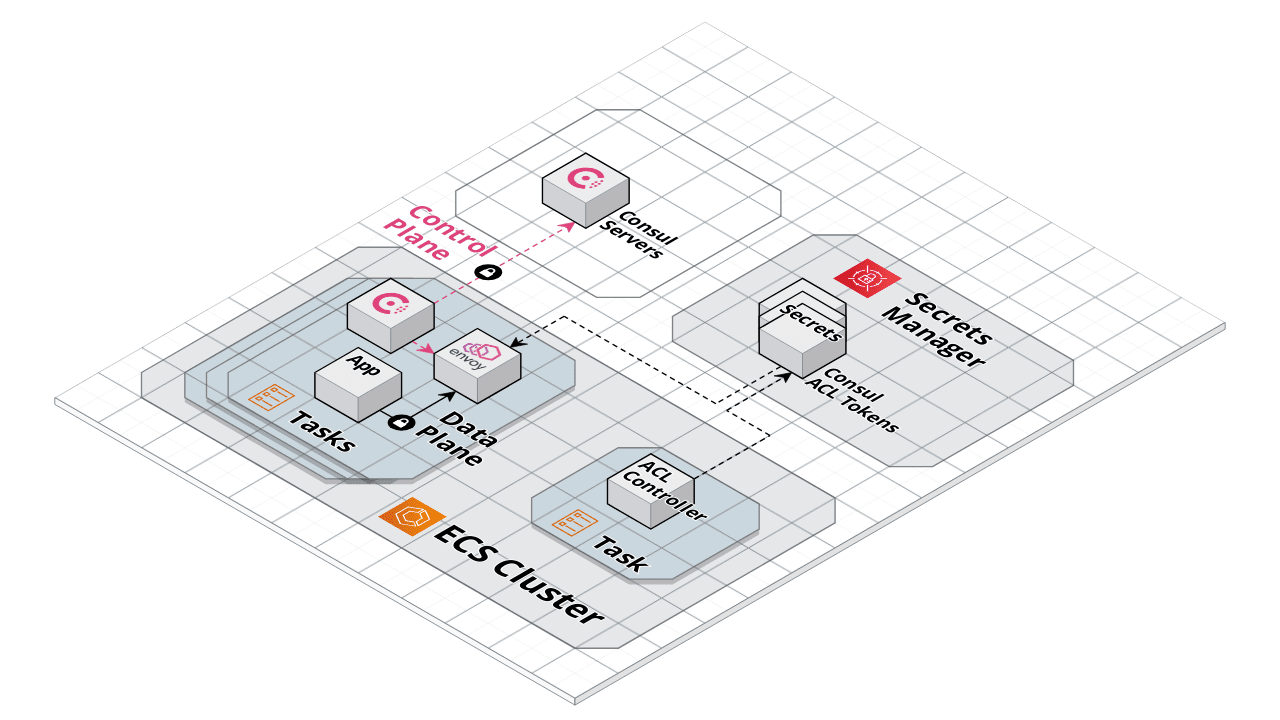
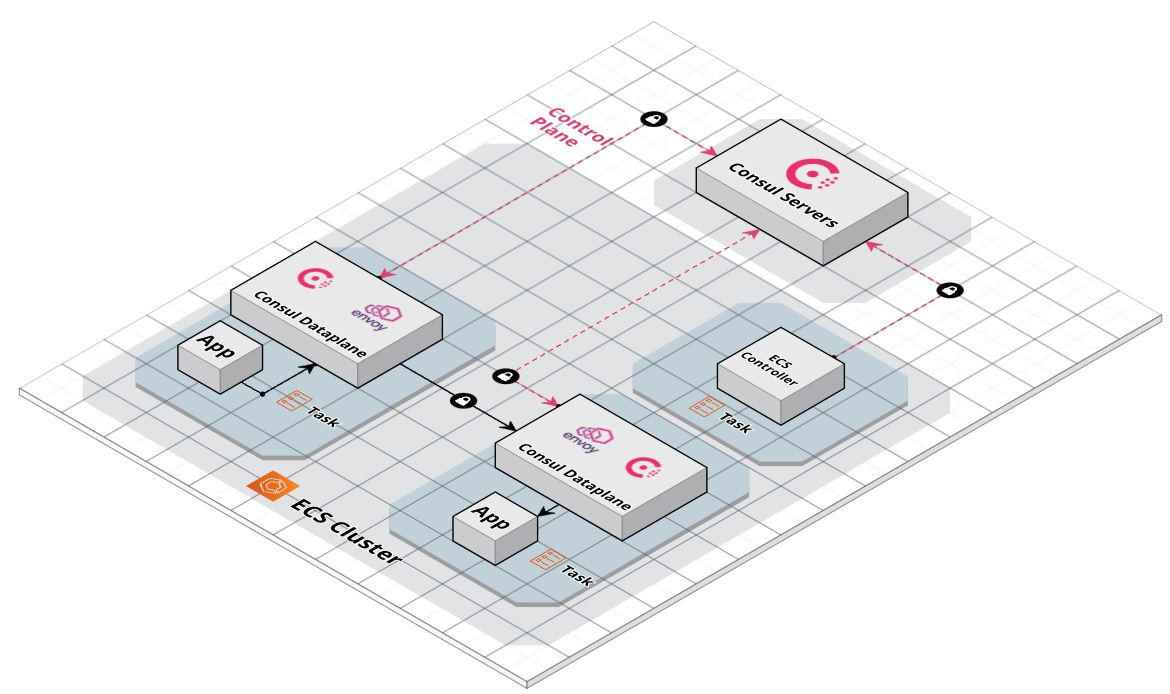
Update readme

diff --git a/README.md b/README.md
@@ -9,26 +9,20 @@ See https://www.consul.io/docs/ecs for full documentation.
 
 ## Architecture
 
-![Architecture](https://github.com/hashicorp/terraform-aws-consul-ecs/blob/main/_docs/architecture.png?raw=true)
+![Architecture](./_docs/architecture.png?raw=true)
 
 Each task is created via the `mesh-task` module. This module adds
 additional containers known as sidecar containers to your task definition.
 
 Specifically, it adds the following containers:
 
-* `consul-ecs-mesh-init` – Runs at startup to set up initial configuration for Consul and Envoy.
-* `consul-client` – Runs for the full lifecycle of the task. This container runs a
-  [Consul client](https://www.consul.io/docs/architecture) that connects with
-  Consul servers and configures the sidecar proxy.
-* `sidecar-proxy` – Runs for the full lifecycle of the task. This container runs
-  [Envoy](https://www.envoyproxy.io/) which is used to proxy and control
-  service mesh traffic. All requests to and from the application run through
-  the sidecar proxy.
-* `health-sync` - Runs for the full lifecycle of the task. This container
-  syncs health check statuses from ECS into Consul.
+* `consul-ecs-control-plane` – Runs for the full lifecycle of the task. At startup, it connects to the available Consul servers and performs a login with the configured IAM Auth method and obtains an ACL token with appropriate privileges. Using the token, it registers the service and proxy entities to Consul's catalog. It then bootstraps the configuration JSON required by the Consul dataplane container and writes it to a shared volume. After this, the container enters into its reconciliation loop where it periodically syncs the health of ECS containers into Consul. Upon receiving SIGTERM, it marks the corresponding service instance in Consul as unhealthy and waits for the dataplane container to shutdown after which it deregisters the service and proxy entities from Consul's catalog and performs a Consul logout.
+* `consul-dataplane` – Runs for the full lifecycle of the task. This container runs
+  the [Consul dataplane](https://github.com/hashicorp/consul-dataplane) binary which is used to configure and start Envoy. Envoy acts as a proxy and controls all the service mesh traffic. All requests to and from the application run through
+  the proxy.
 
-The `acl-controller` module runs a controller that automatically provisions ACL tokens
-for tasks on the mesh.
+The `ecs-controller` module runs a controller that automatically provisions ACL tokens
+for tasks on the mesh. It also deregisters service instances from Consul for missing/finished tasks in ECS.
 
 The `dev-server` module runs a development/testing-only Consul server as an
 ECS task.
@@ -47,8 +41,8 @@ See https://www.consul.io/docs/ecs.
 * [dev-server](https://github.com/hashicorp/terraform-aws-consul-ecs/blob/main/modules/dev-server) [**For Development/Testing Only**]: This module deploys a Consul server onto your ECS Cluster
   for development/testing purposes. The server does not have persistent storage and so is not suitable for production deployments.
 
-* [acl-controller](https://github.com/hashicorp/terraform-aws-consul-ecs/blob/main/modules/acl-controller): This modules deploys a controller that automatically provisions ACL tokens
-  for services on the Consul service mesh.
+* [ecs-controller](https://github.com/hashicorp/terraform-aws-consul-ecs/blob/main/modules/ecs-controller): This modules deploys a controller that automatically provisions ACL tokens
+  for services on the Consul service mesh. It also keeps an eye on the tasks and deregisters the service instances of those tasks that go missing or get finished.
 
 ## Roadmap
 
